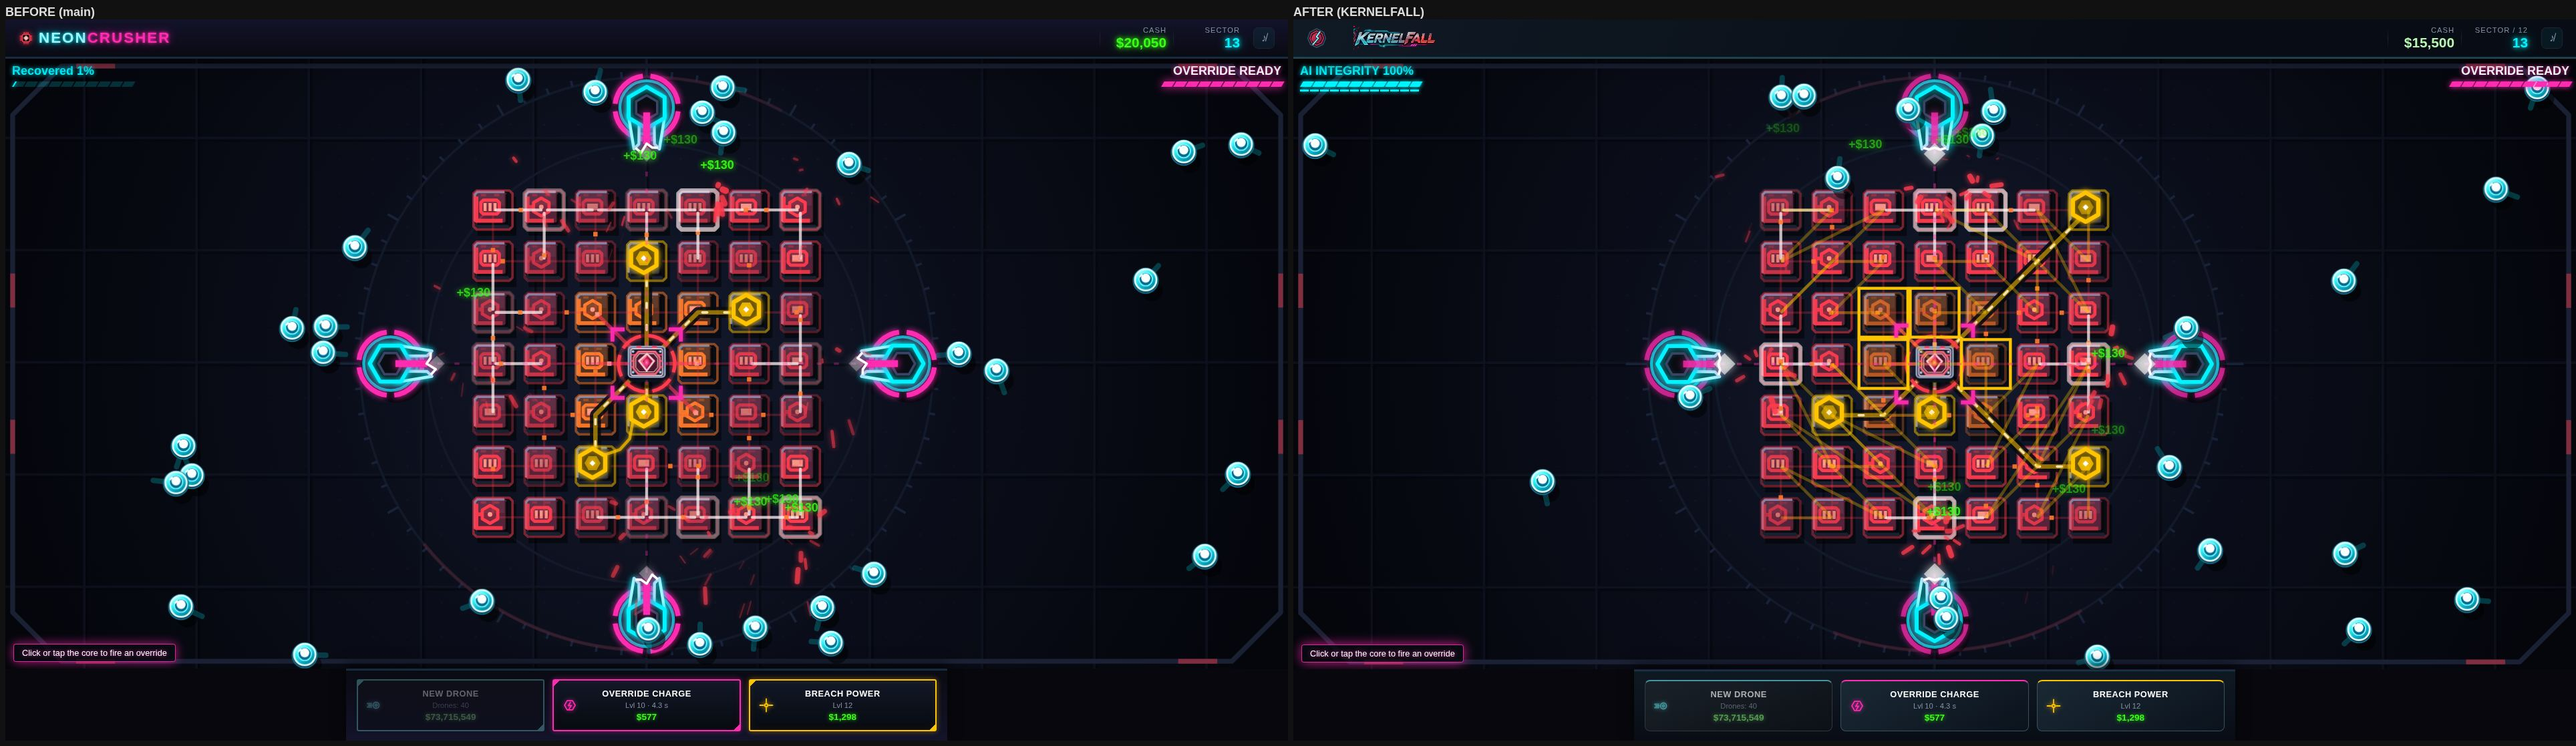
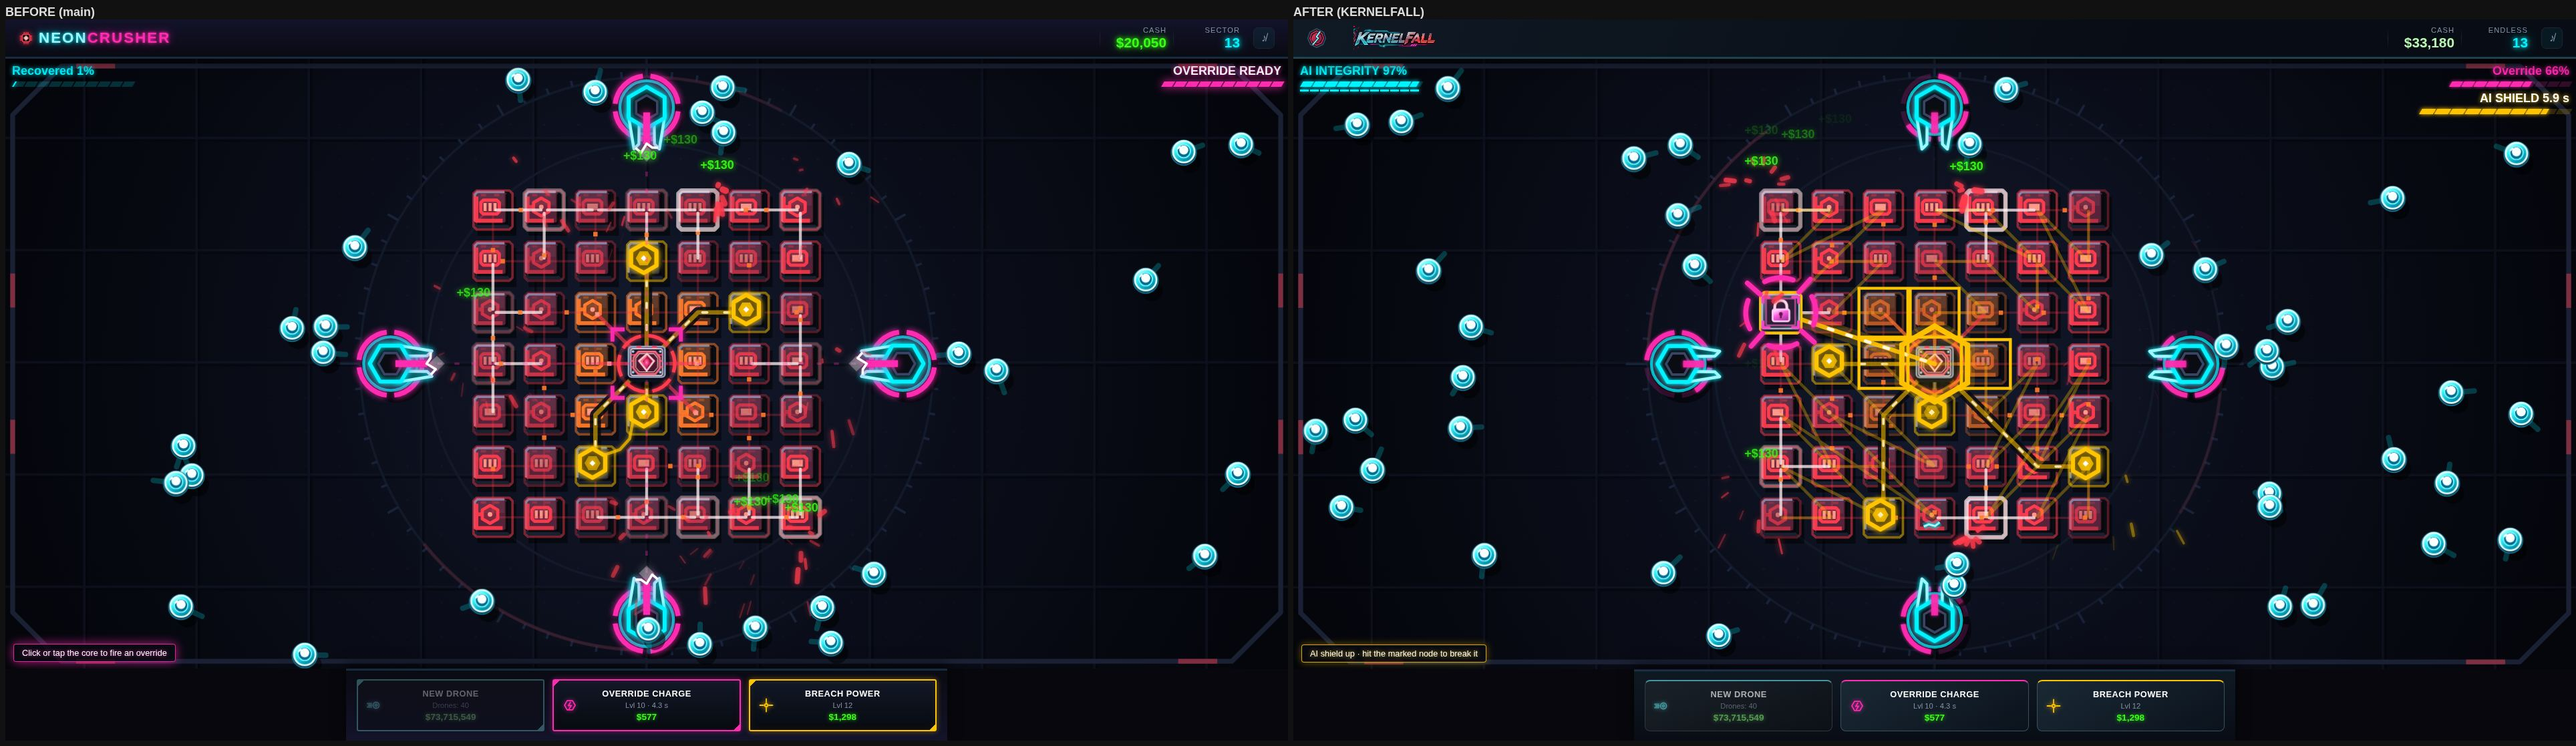
Finalize Polish QA report and reproducible handoff artifacts

diff --git a/docs/KERNELFALL_REPORT_PL.md b/docs/KERNELFALL_REPORT_PL.md
@@ -92,8 +92,8 @@ NOT RUN / NOT VERIFIED. Symulacja 60/144/165 Hz jest osobnym dowodem.
 
 ## HANDOFF
 
-STAN PRAC: implementacja i materiały lokalne; wyniki końcowego QA i wydajności
-zostaną dopisane poniżej. Zdalny PR blokuje HTTP 403 obu metod zapisu.
+STAN PRAC: implementacja, pełne QA i materiały lokalne gotowe.
+Zdalny PR blokuje HTTP 403 obu metod zapisu.
 REPO: klaudiamoscinska-art/neon-crusher, feature/kernelfall-basic-final;
 origin/main = c8542741296489324b7d235b682c7e5de78a9a42; PR: brak.
 ZMIANY: branding/UI, graf rozpadu, trzy archetypy, 12 sektorów/endless,
@@ -152,3 +152,56 @@ Nie obniżano liczby dronów, DPR ani jakości zaakceptowanych sprite'ów.
 To wskaźnik laboratoryjny, nie gwarancja FPS na urządzeniach. Rozrzut p95
 małego ekranu pozostaje widoczny; pomiar na iPhonie/Chromebooku NOT RUN.
 Wcześniejsze pomiary wykonywane podczas równoległych botów nie służą do oceny.
+
+
+## Końcowe wyniki QA i paczka
+
+Pełny zestaw: **255 PASS, 0 FAIL, 1 NOT RUN** (fizyczne safe areas).
+Testowany runtime: `a7b6fd1bbb622d165a56e2a7d79028b589e8f8bf`;
+późniejsze zmiany obejmują dokumentację, screenshoty i narzędzia deweloperskie.
+Komenda: `NC_QA_SIM_ONLY=1 NC_CHROMIUM=/usr/bin/chromium node qa/run-all.mjs --base origin/main`.
+Tryb symulacyjny pomija tylko pusty renderer harnessu. Pełny rzeczywisty
+renderer nadal działa w browser-smoke, scenach iframe i pomiarach wydajności;
+osobny test potwierdza identyczność stanów z rysowaniem i bez niego.
+
+| Zestaw | PASS | FAIL | Pozostałe |
+|---|---:|---:|---|
+| integrity | 9 | 0 | porównanie z origin/main wykonane |
+| instructions | 12 | 0 | |
+| runner | 18 | 0 | |
+| physics | 20 | 0 | 48 ziaren; 60/144/165 Hz |
+| levels | 25 | 0 | geometry/resize |
+| economy | 30 | 0 | pełny profil |
+| save | 24 | 0 | stary save, backup, reload |
+| i18n | 17 | 0 | EN/PL |
+| collapse | 64 | 0 | topologia, erozja, zapis, Hz i renderer |
+| recovery | 17 | 0 | osłony, idle, geometria HUD |
+| browser-smoke | 19 | 0 | NOT RUN: fizyczne safe areas |
+
+Dodatkowy rzeczywisty Chromium w iframe: 10/10; lokalne logo dekoduje się,
+cztery rozmiary mieszczą UI, wszystkie archetypy odłączają gałąź,
+finał przechodzi do endless, 0 błędów i 0 żądań zewnętrznych.
+Logi, JSON testów, manifest oraz wyniki bazowe są w pakiecie odbiorowym.
+
+HTML5: 5 plików, **279814 B**, ZIP **151634 B**. Rozmiar skompresowanego ZIP
+może zmienić się przy ponownym zbudowaniu; aktualny SHA-256 i listę plików
+zawsze wyznacza `qa/out/package-manifest.json`. Zweryfikowano CRC ZIP,
+kompletność lokalnych zasobów i względne odwołania. Brak plików dev w HTML5.
+
+## Pakiet do kontynuacji mimo 403
+
+Poza repo przygotowano `KERNELFALL-review.bundle`, `KERNELFALL_REVIEW.zip`,
+`KERNELFALL_PR_BODY_PL.md` i `KERNELFALL_GIT_STATUS.txt` z końcowym SHA gałęzi.
+Bundle zawiera commity tej gałęzi względem main; ZIP zawiera także raport,
+screenshoty, pełne logi i oba formaty HTML5. Przywrócenie w istniejącym repo:
+
+1. `git bundle verify /ścieżka/KERNELFALL-review.bundle`
+2. `git fetch /ścieżka/KERNELFALL-review.bundle feature/kernelfall-basic-final:feature/kernelfall-basic-final`
+3. Sprawdzić raport, SHA oraz `git diff origin/main...feature/kernelfall-basic-final`.
+4. Po uzyskaniu uprawnień: wysłać tylko gałąź feature i otworzyć jeden PR
+   do main z przygotowanym opisem. Nie scalać ani nie wdrażać automatycznie.
+
+Cel odbioru GPT: jakość nowego UI i logo przy DPR 1, czytelność rzeczywistych
+węzłów i efektów rozpadu, czy trzy archetypy są wystarczająco odmienne,
+pasywne tempo i finał 12 sektorów, zgodność starego save oraz gotowość CG.
+Status produkcji: bez zmian. Status PR: **NIE UTWORZONO — HTTP 403**.

diff --git a/README.md b/README.md
@@ -1,10 +1,15 @@
-# Neon Crusher
+# KERNELFALL
 
-Physics-sandbox idle game: neon turrets fire balls that bounce around and
-grind down a destructible block core; every hit pays cash for upgrades.
+Active idle physics game: autonomous drones breach a rogue AI while aimed
+OVERRIDE pulses sever power branches and trigger NEURAL COLLAPSE. Destroy
+the main core after twelve sectors, then continue endlessly. Existing
+Neon Crusher saves and the repository URL remain compatible.
 Plain HTML/CSS/JS, no dependencies.
 
 - Play locally: `python3 -m http.server 8080`, open `http://localhost:8080/`.
 - Tests: `node qa/run-all.mjs` (`qa/README.md`).
 - Docs: `docs/` (design, architecture, save contract, risks, roadmap,
   CrazyGames, release); working rules for Claude Code: `CLAUDE.md`.
+
+Basic Launch package and review: `docs/KERNELFALL_BASIC.md`,
+`docs/KERNELFALL_REPORT_PL.md`. No merge or deployment without owner approval.
